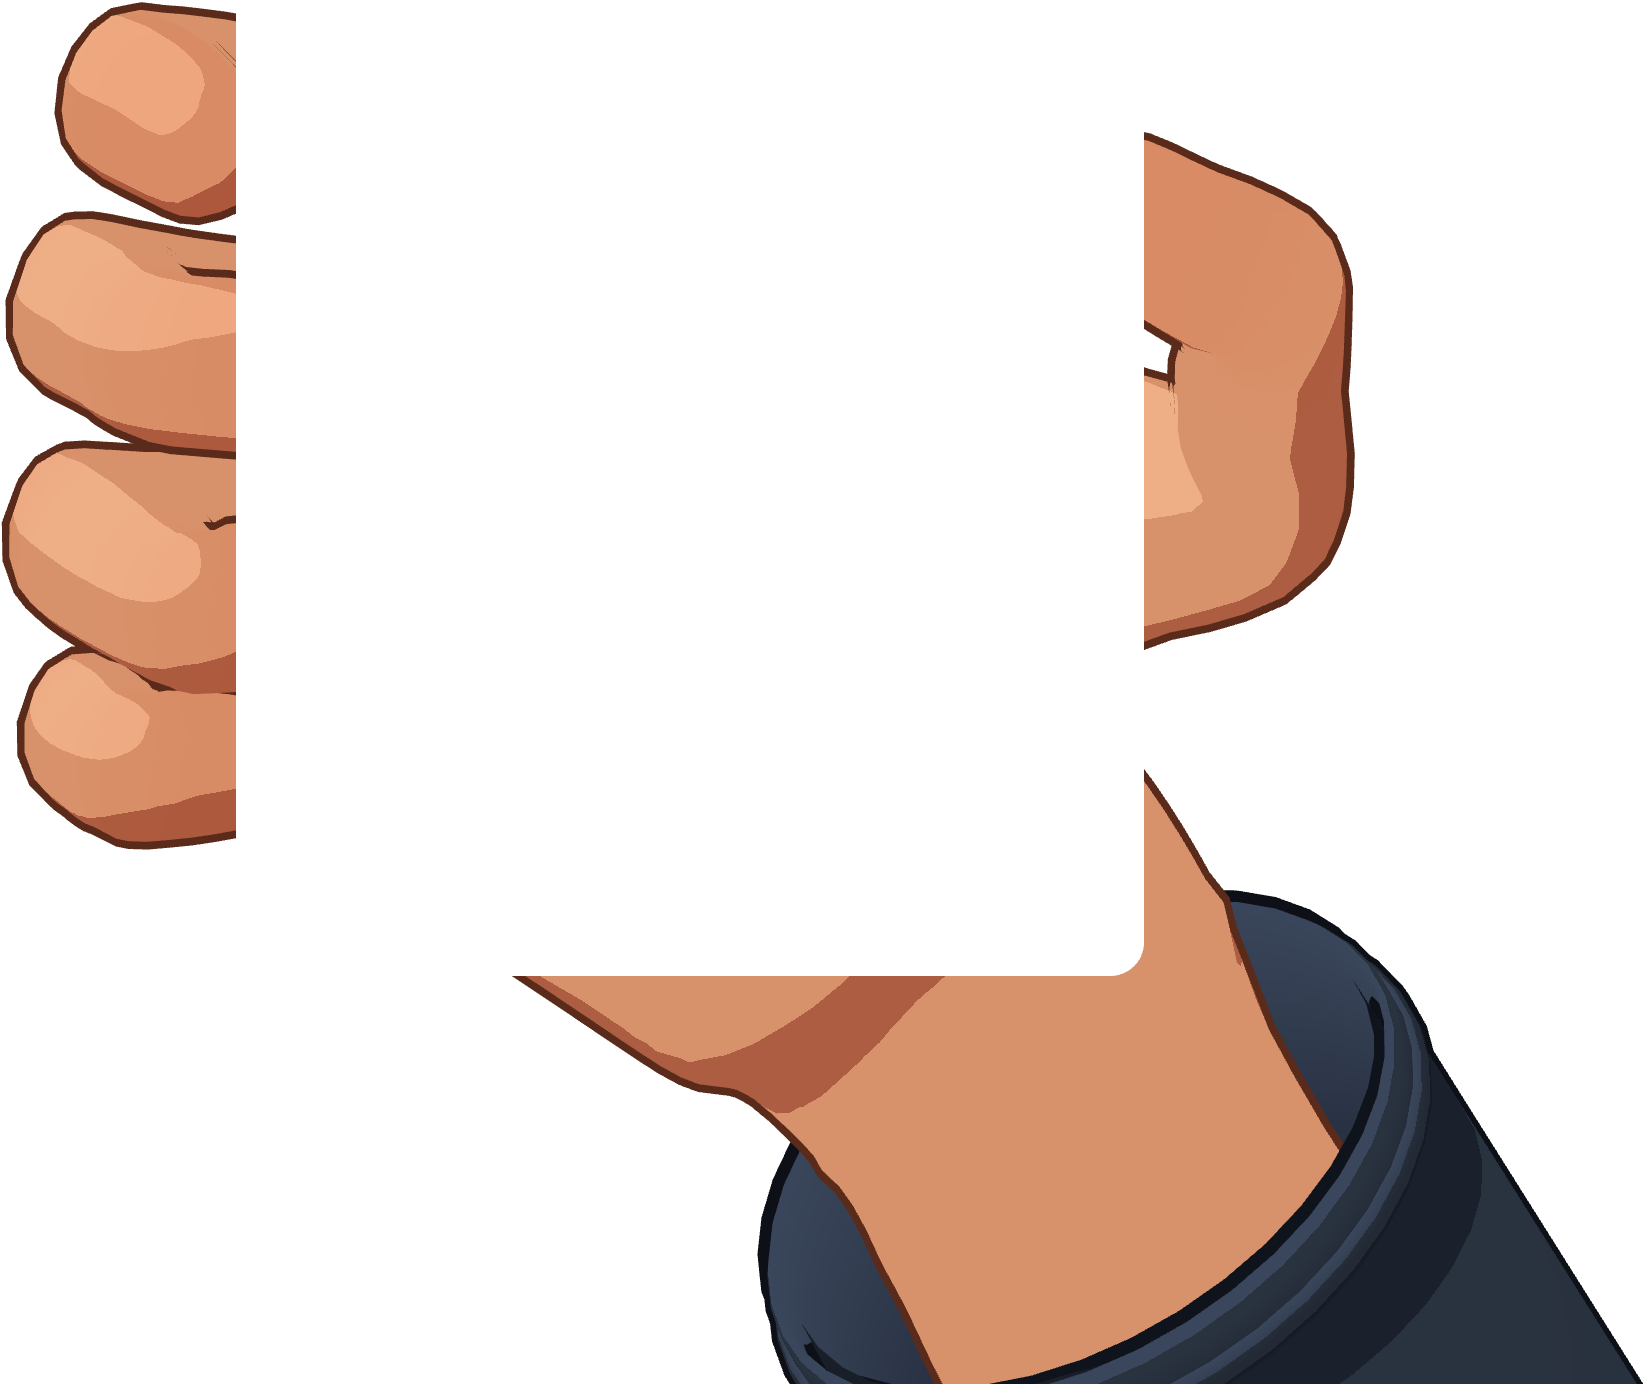
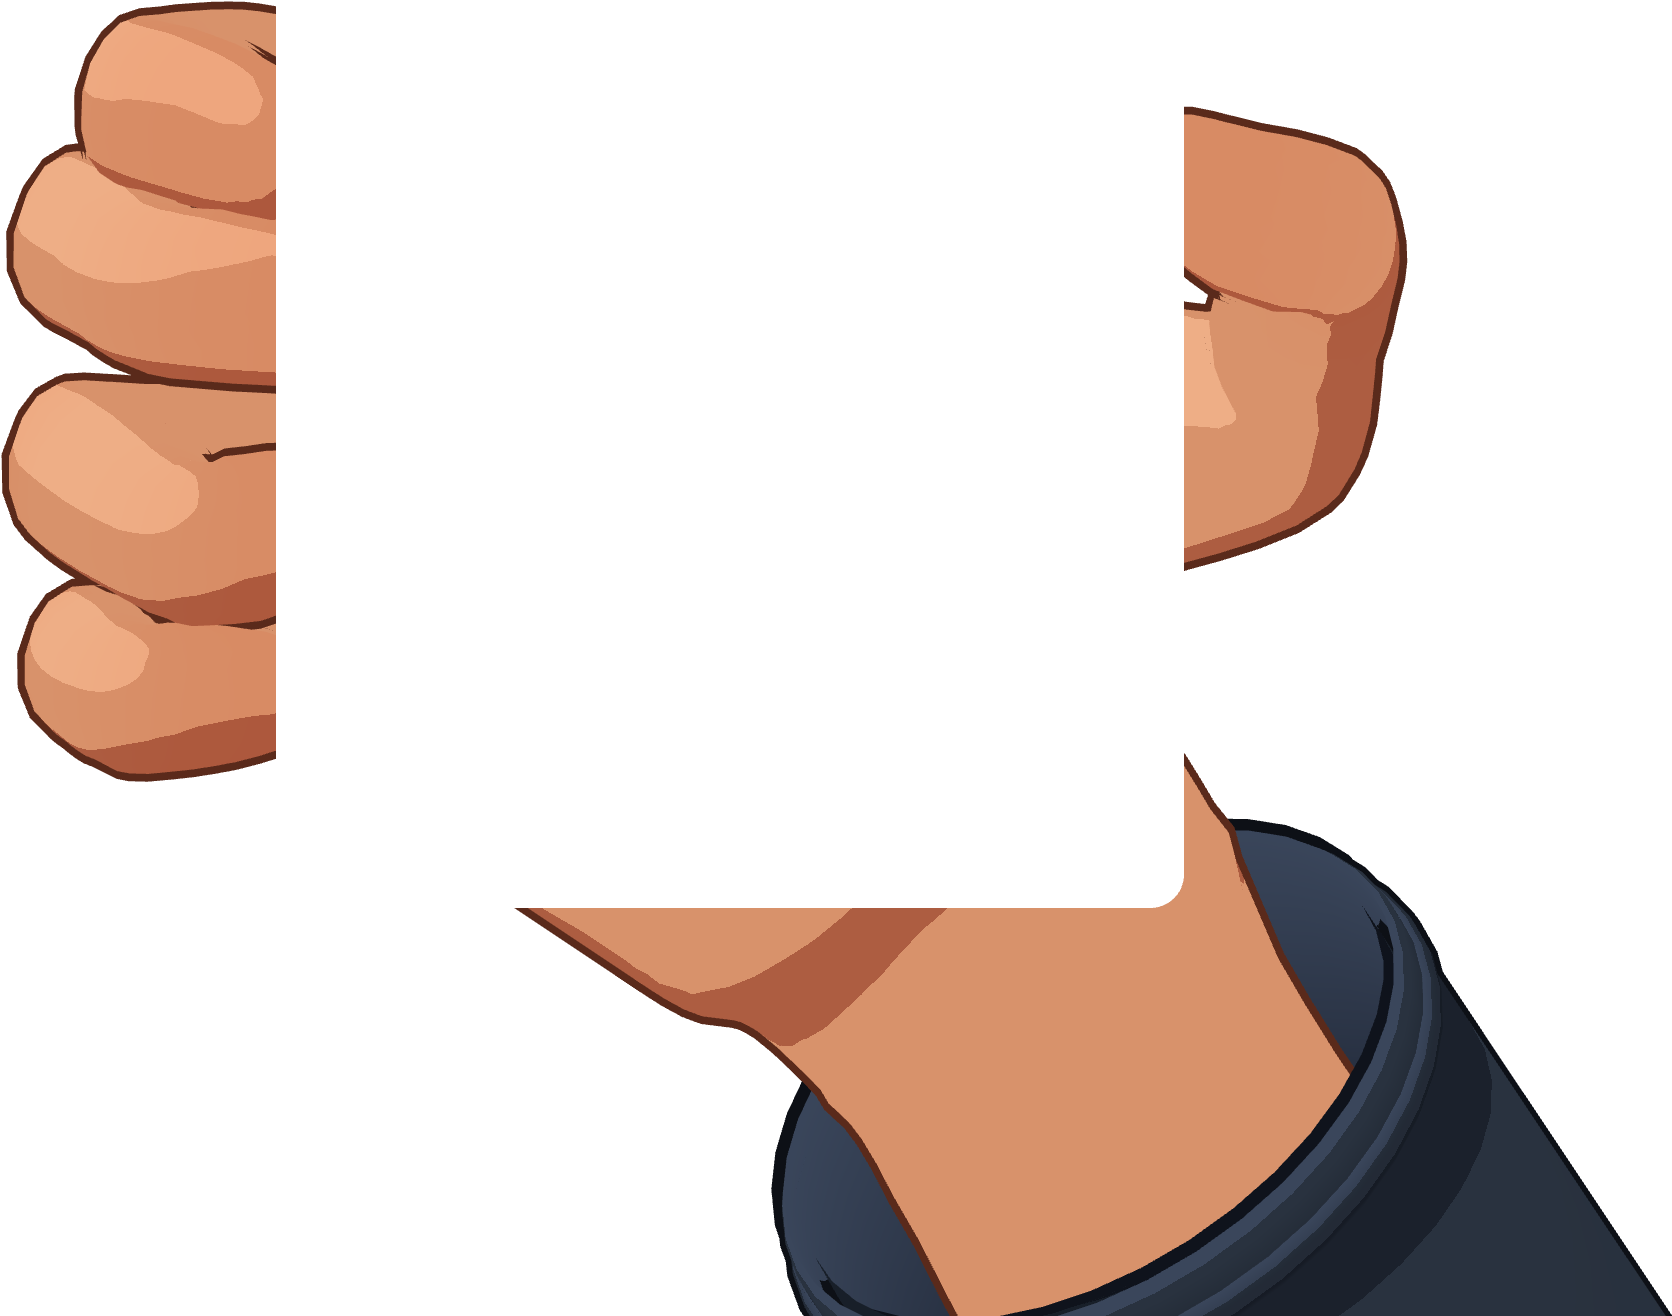
fixed hand position and updated resume content

diff --git a/src/scene/hand/keys.ts b/src/scene/hand/keys.ts
@@ -1,4 +1,5 @@
-/* v10's key poses for the hand (docs/reference/hand-turn-spike/), unchanged.
+/* v10's key poses for the hand (docs/reference/hand-turn-spike/), unchanged but for P's place (slid out
+   over the edge, so the fingers cover less of the face) and the digits re-rested to match.
 
    Badge-local px, three.js axes: x right (as seen at rest), y up, z out of
    the FRONT face (the LCD side). The card is ±115.5 × ±250 with faces at
@@ -88,16 +89,20 @@ export const KEYS: Record<KeyName, KeyPose> = {
   },
   // P: presenting. Palm behind the card, all four fingertips curled over the +x long edge (the LEFT edge once
   // turned) onto the visible face, index highest, little finger lowest; the thumb pad on the face just inside the
-  // other edge. Wrist 10° ulnar / 17° extension.
+  // other edge. v10's grip slid 10 px out along +x (2026-11-21), so the fingertips reach 38 units in over the face,
+  // not v10's 48 (the held view keeps its text clear of them; held-hand.json `reach`). The index spreads 6° more
+  // (else it dips into the card while the hand slides out from M2), the index and little finger curl 12.9° and
+  // 0.6° more to rest on the face again, and the thumb is re-aimed to rest just inside the other edge.
+  // Wrist 9° ulnar / 16° extension.
   P: {
-    place: { p: [-80, -265, 141.3], F: [0.6179, 0.7364, -0.2756], N: [-0.1772, -0.2112, -0.9613] },
+    place: { p: [-70, -265, 141.3], F: [0.6179, 0.7364, -0.2756], N: [-0.1772, -0.2112, -0.9613] },
     fingers: {
-      index: [-27, -10, 35, 74, 0, 12.1],
+      index: [-33, -10, 35, 74, 0, 25],
       middle: [-33, -10, 65, 15.5, 0, 53.9],
       ring: [-25, 8, 75, 71.5, 4, 25.9],
-      pinky: [-27.5, -2, 62.5, 89.5, 8, 25],
+      pinky: [-27.5, -2, 62.5, 89.5, 8, 25.6],
     },
-    thumb: { cmc: [36.8, 31.2, 37.5], mcp: 58, ip: 75.4, curl: -3.4 },
+    thumb: { cmc: [48, 24.4, 21.5], mcp: 55.8, ip: 85.2 },
     contacts: { index: -1, middle: -1, ring: -1, pinky: -1, thumb: -1 },
   },
 };

diff --git a/src/styles/held-view.css b/src/styles/held-view.css
@@ -62,15 +62,15 @@
         calc(100% - var(--held-badge-top) - var(--held-badge-h)) round calc(var(--held-badge-w) * 0.045)
     );
 
-    /* Where the back keeps its content clear of the resting hand (spike
-       v10's final grip, in units of this badge; scene/hand/held-hand.json
-       `reach` has the measured hand). The four fingertips reach 48.3 units in
-       over the left edge, and their soft shadow on the face fades out by
-       about 60, so text starts at 60. The thumb reaches 21.5 units in over the
-       right edge (its shadow falls away from the text): 28 leaves a margin
-       like the fingers'. The lowest fingertip is at 463.8 of 500. */
-    --held-finger-left: calc(60 * var(--held-u));
-    --held-thumb-right: calc(28 * var(--held-u));
+    /* Where the back keeps its content clear of the resting hand (the final
+       grip, in units of this badge; scene/hand/held-hand.json `reach` has the
+       measured hand). The four fingertips reach 38 units in over the left
+       edge, and their soft shadow on the face fades out about 12 further, so
+       text starts at 50. The thumb reaches 17.3 units in over the right edge
+       (its shadow falls away from the text): 24 leaves a margin like the
+       fingers'. The lowest fingertip is at 461 of 500. */
+    --held-finger-left: calc(50 * var(--held-u));
+    --held-thumb-right: calc(24 * var(--held-u));
     --held-hand-bottom: calc(30 * var(--held-u));
 
     /* Layers over the back content, back to front. */
@@ -148,7 +148,7 @@
 
   /* ---- The resting hand: two static images ------------------------------ */
 
-  /* v10's final grip, pre-rendered (scene/hand/held-hand.ts): the whole hand
+  /* The turn's final grip, pre-rendered (scene/hand/held-hand.ts): the whole hand
      behind the badge, and its near side (the four fingertips over the left
      edge, the thumb on the face) in front of it. Both cover the same box, set
      on the element in badge units from the held badge's top-left corner. The

diff --git a/tests/unit/reducer.test.ts b/tests/unit/reducer.test.ts
@@ -47,12 +47,12 @@ test('EXIT_APP closes the app', () => {
   const open = reduce(L, { type: 'INPUT', input: 'a' }, apps).state;
   expect(reduce(open, { type: 'EXIT_APP' }, apps).effects).toEqual([{ type: 'unmountApp', id: 'now' }]);
 });
-test('off ignores input; reset reboots and clears glitch', () => {
+test('off ignores input; reset reboots, clears glitch and resets the colors', () => {
   const off = reduce({ ...L, glitch: true }, { type: 'POWER_OFF' }, apps).state;
   expect(reduce(off, { type: 'INPUT', input: 'a' }, apps).state).toEqual(off);
   const r = reduce(off, { type: 'RESET' }, apps);
   expect(r.state).toMatchObject({ mode: 'booting', glitch: false });
-  expect(r.effects).toEqual([{ type: 'startBoot' }]);
+  expect(r.effects).toEqual([{ type: 'resetTheme' }, { type: 'startBoot' }]);
 });
 test('POWER_OFF inside an app unmounts it', () => {
   const inApp = reduce(L, { type: 'INPUT', input: 'a' }, apps).state;
@@ -60,7 +60,11 @@ test('POWER_OFF inside an app unmounts it', () => {
 });
 test('reset from inside an app unmounts it first', () => {
   const inApp = reduce(L, { type: 'INPUT', input: 'a' }, apps).state;
-  expect(reduce(inApp, { type: 'RESET' }, apps).effects).toEqual([{ type: 'unmountApp', id: 'now' }, { type: 'startBoot' }]);
+  expect(reduce(inApp, { type: 'RESET' }, apps).effects).toEqual([
+    { type: 'unmountApp', id: 'now' },
+    { type: 'resetTheme' },
+    { type: 'startBoot' },
+  ]);
 });
 test('SET_GLITCH sets glitch', () => {
   expect(reduce(L, { type: 'SET_GLITCH', on: true }, apps).state.glitch).toBe(true);

diff --git a/tests/e2e/held-view.spec.ts b/tests/e2e/held-view.spec.ts
@@ -394,8 +394,11 @@ test.describe('the held close-up on a qualifying desktop', () => {
         const s = getComputedStyle(main);
         return { left: r.left + parseFloat(s.paddingLeft), right: r.right - parseFloat(s.paddingRight) };
       });
-      expect(column.left, `${size.width}`).toBeGreaterThanOrEqual(badge.x + badge.width * 0.21);
-      expect(column.right, `${size.width}`).toBeLessThanOrEqual(badge.x + badge.width * 0.9);
+      // The measured hand (badge units, 231 across): text clears the fingertips and the thumb by at least 10.
+      const unit = badge.width / 231;
+      const { fingersFromLeft, thumbFromRight } = HELD_HAND.reach;
+      expect(column.left, `${size.width}`).toBeGreaterThanOrEqual(badge.x + (fingersFromLeft + 10) * unit);
+      expect(column.right, `${size.width}`).toBeLessThanOrEqual(badge.x + badge.width - (thumbFromRight + 5) * unit);
     }
   });
 

diff --git a/tests/e2e/reskin.spec.ts b/tests/e2e/reskin.spec.ts
@@ -19,6 +19,17 @@ test('reskin changes the board, persists, and carries to the back', async ({ pag
   await expect(page.locator('html')).toHaveAttribute('data-board', board!);
 });
 
+test('reset puts the default colors back', async ({ page }) => {
+  await openReskin(page);
+  await page.keyboard.press('ArrowRight');
+  await expect(page.locator('html')).not.toHaveAttribute('data-board', 'green');
+  await page.getByRole('button', { name: 'Reset badge' }).click();
+  await expect(page.locator('html')).toHaveAttribute('data-board', 'green');
+  await expect(page.locator('html')).toHaveAttribute('data-metal', 'gold');
+  await page.reload();
+  await expect(page.locator('html')).toHaveAttribute('data-board', 'green');
+});
+
 test('reskin works when storage is blocked', async ({ page }) => {
   const errors: string[] = [];
   page.on('pageerror', (e) => errors.push(e.message));

diff --git a/tests/unit/palettes.test.ts b/tests/unit/palettes.test.ts
@@ -46,3 +46,16 @@ test('controller applies, persists and unlocks', () => {
   const again = createThemeController(fakeRoot().root, store);
   expect(again.get()).toEqual({ board: 'midnight', metal: 'silver' });
 });
+
+test('reset puts the default colors back and keeps the unlocks', () => {
+  const store = createSafeStorage(() => undefined);
+  const { attrs, root } = fakeRoot();
+  const c = createThemeController(root, store);
+  c.unlock('midnight');
+  c.set({ board: 'midnight', metal: 'silver' });
+  c.reset();
+  expect(c.get()).toEqual(DEFAULT_THEME);
+  expect(attrs).toMatchObject({ board: 'green', metal: 'gold' });
+  expect(c.unlocked()).toEqual(['midnight']);
+  expect(createThemeController(fakeRoot().root, store).get()).toEqual(DEFAULT_THEME);
+});

diff --git a/src/badge/theme/theme.ts b/src/badge/theme/theme.ts
@@ -7,6 +7,8 @@ const UNLOCKED_KEY = 'badge-unlocked';
 export interface ThemeController {
   get(): Theme;
   set(t: Theme): void;
+  /** Back to the default colors; boards already unlocked stay unlocked. */
+  reset(): void;
   unlock(id: BoardId): void;
   unlocked(): BoardId[];
 }
@@ -54,6 +56,10 @@ export function createThemeController(root: HTMLElement, storage: SafeStorage): 
       const next = parseTheme(JSON.stringify(t), unlocked());
       storage.set(THEME_KEY, JSON.stringify(next));
       apply(next);
+    },
+    reset() {
+      storage.remove(THEME_KEY);
+      apply(DEFAULT_THEME);
     },
     unlock(id) {
       if (!BOARDS.some((b) => b.id === id && b.hidden)) return;

diff --git a/src/badge/os/reducer.ts b/src/badge/os/reducer.ts
@@ -90,7 +90,7 @@ export function reduce(state: OsState, event: OsEvent, apps: readonly AppEntry[]
     case 'RESET':
       return {
         state: { ...state, mode: 'booting', appId: null, selected: 0, glitch: false },
-        effects: [...leaveApp(state), { type: 'startBoot' }],
+        effects: [...leaveApp(state), { type: 'resetTheme' }, { type: 'startBoot' }],
       };
     case 'UNLOCK_DEV':
       return none(clampSelected({ ...state, devMode: true }, apps));

diff --git a/src/scene/hand/held-hand.ts b/src/scene/hand/held-hand.ts
@@ -1,4 +1,4 @@
-/* The resting hand on the held badge: two static images of v10's final grip,
+/* The resting hand on the held badge: two static images of the turn's final grip,
    one behind the badge (held-hand-behind.webp) and one in front of it
    (held-hand-front.webp, with the hand's soft shadow on the face). Rendered
    by scripts/hand/render-held-hand.mjs (`pnpm hand:images`), which also

diff --git a/src/badge/os/types.ts b/src/badge/os/types.ts
@@ -62,4 +62,6 @@ export type OsEffect =
   | { type: 'flip'; route: string }
   | { type: 'mountApp'; id: string }
   | { type: 'unmountApp'; id: string }
-  | { type: 'startBoot' };
+  | { type: 'startBoot' }
+  /** The badge's colors back to the default (RESET). */
+  | { type: 'resetTheme' };

diff --git a/src/badge/os/runtime.ts b/src/badge/os/runtime.ts
@@ -171,6 +171,8 @@ export function createRuntime(opts: {
         return unmountApp();
       case 'flip':
         return flip(effect.route);
+      case 'resetTheme':
+        return ctxBase.theme.reset();
     }
   }
 

diff --git a/scripts/hand/README.md b/scripts/hand/README.md
@@ -98,18 +98,19 @@ The held close-up (#28) and the hand turn's last frame (#32) both rely on this.
   of radius 0.045 × width (as `.held-view__badge`).
 - **Bottom edge.** Cut through the sleeve at y = 600 (100 units below the
   badge). In the held framing the window ends about 12 units below the badge.
-- **Pose and camera.** v10 at t = 1 exactly: key P, the forearm aimed at
-  `ELBOW_UP` (wrist 10.1° ulnar, 16.6° extension), all five pads resting on
+- **Pose and camera.** The turn at t = 1 exactly: key P (v10's grip slid
+  10 px out over the edge), the forearm aimed at `ELBOW_UP` (wrist 9.1°
+  ulnar, 16.2° extension), all five pads resting on
   the face at curl 0. The badge face-on; the eye 1182 spike px (about 998
   units) in front of the card's mid-plane, centred across it and 6 spike px
   (5.07 units) below its centre (v10's perspective camera, its badge 6 px up).
 - **Line widths.** v10's, scaled with the badge: skin outline 1.93 units,
   inner lines 0.84; sleeve 1.43 and 0.76.
 - **Reach** (`reach` in the JSON, solid pixels over the face): fingertips
-  48.3 units in from the left edge, the thumb 21.5 in from the right, the hand
-  from 267.3 to 463.8 units down; the fingers' shadow fades out by about 60
-  units in. The back's padding tokens (`--held-finger-left` 60,
-  `--held-thumb-right` 28, `--held-hand-bottom` 30 from the bottom) keep text
+  38 units in from the left edge, the thumb 17.3 in from the right, the hand
+  from 284 to 461 units down; the fingers' shadow fades out by about 50
+  units in. The back's padding tokens (`--held-finger-left` 50,
+  `--held-thumb-right` 24, `--held-hand-bottom` 30 from the bottom) keep text
   clear of the hand and its shadow.
 
 ## The hand turn (#32)
